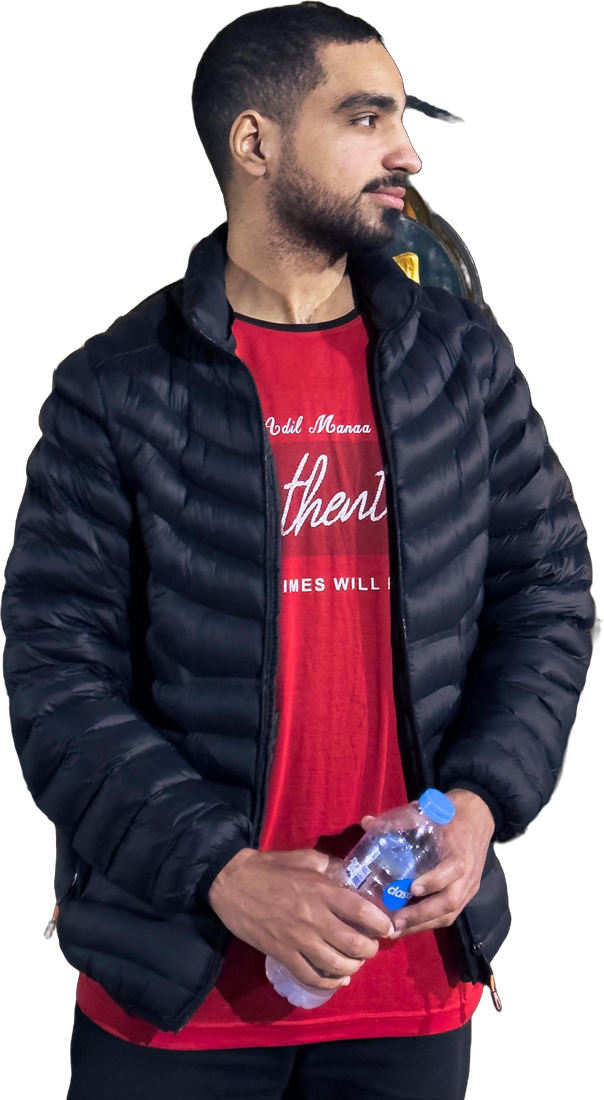
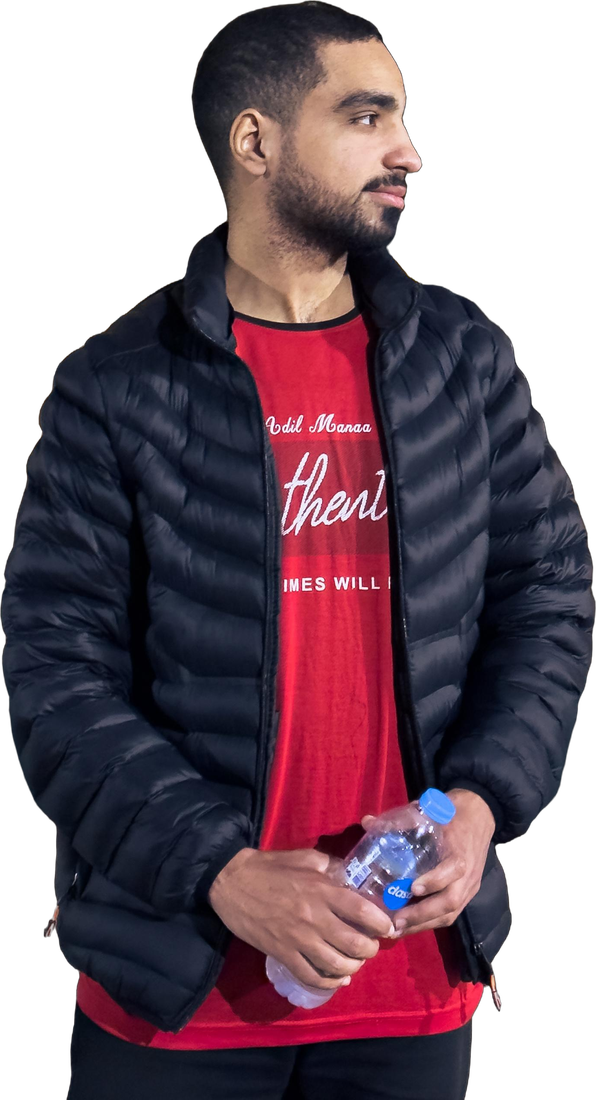
Add phrases

diff --git a/index.html b/index.html
@@ -298,28 +298,22 @@
   }
   .lb-refresh:hover{background:rgba(42,27,61,.14);}
 
-  /* mascot: the man, stood at the bottom-left */
+  /* mascot: the man, standing on top of the white panel above the B */
   .mascot{
-    position:fixed;
-    left:0;
-    bottom:0;
-    height:92vh;
-    max-height:900px;
+    position:absolute;
+    bottom:100%;           /* feet rest on the top edge of the card */
+    left:14px;             /* above the B column */
+    height:130px;
     width:auto;
-    z-index:0;
-    pointer-events:none;
-    filter:drop-shadow(0 8px 24px rgba(0,0,0,.5));
+    z-index:5;
+    filter:drop-shadow(0 6px 12px rgba(0,0,0,.45));
     user-select:none;
+    pointer-events:none;
   }
-  /* keep all the interactive content above the mascot */
-  header, .card, .controls, .scoreline{position:relative; z-index:1;}
-  /* shrink him on medium screens, hide only on phones */
-  @media (max-width:900px){ .mascot{height:70vh; opacity:.9;} }
-  @media (max-width:560px){ .mascot{display:none;} }
+  @media (max-width:560px){ .mascot{height:96px; left:8px;} }
 </style>
 </head>
 <body>
-  <img src="man.png" alt="" class="mascot" aria-hidden="true">
   <header>
     <div class="title"><span>R</span><span>I</span><span>Z</span><span>Z</span><span> </span>BINGO</div>
     <div class="subtitle" id="subtitle">Dab a square every time he says it. Get 5 in a row.</div>
@@ -330,6 +324,7 @@
   </header>
 
   <div class="card">
+    <img src="man.png" alt="" class="mascot" aria-hidden="true">
     <div class="headers">
       <div class="col-h">B</div><div class="col-h">I</div><div class="col-h">N</div><div class="col-h">G</div><div class="col-h">O</div>
     </div>